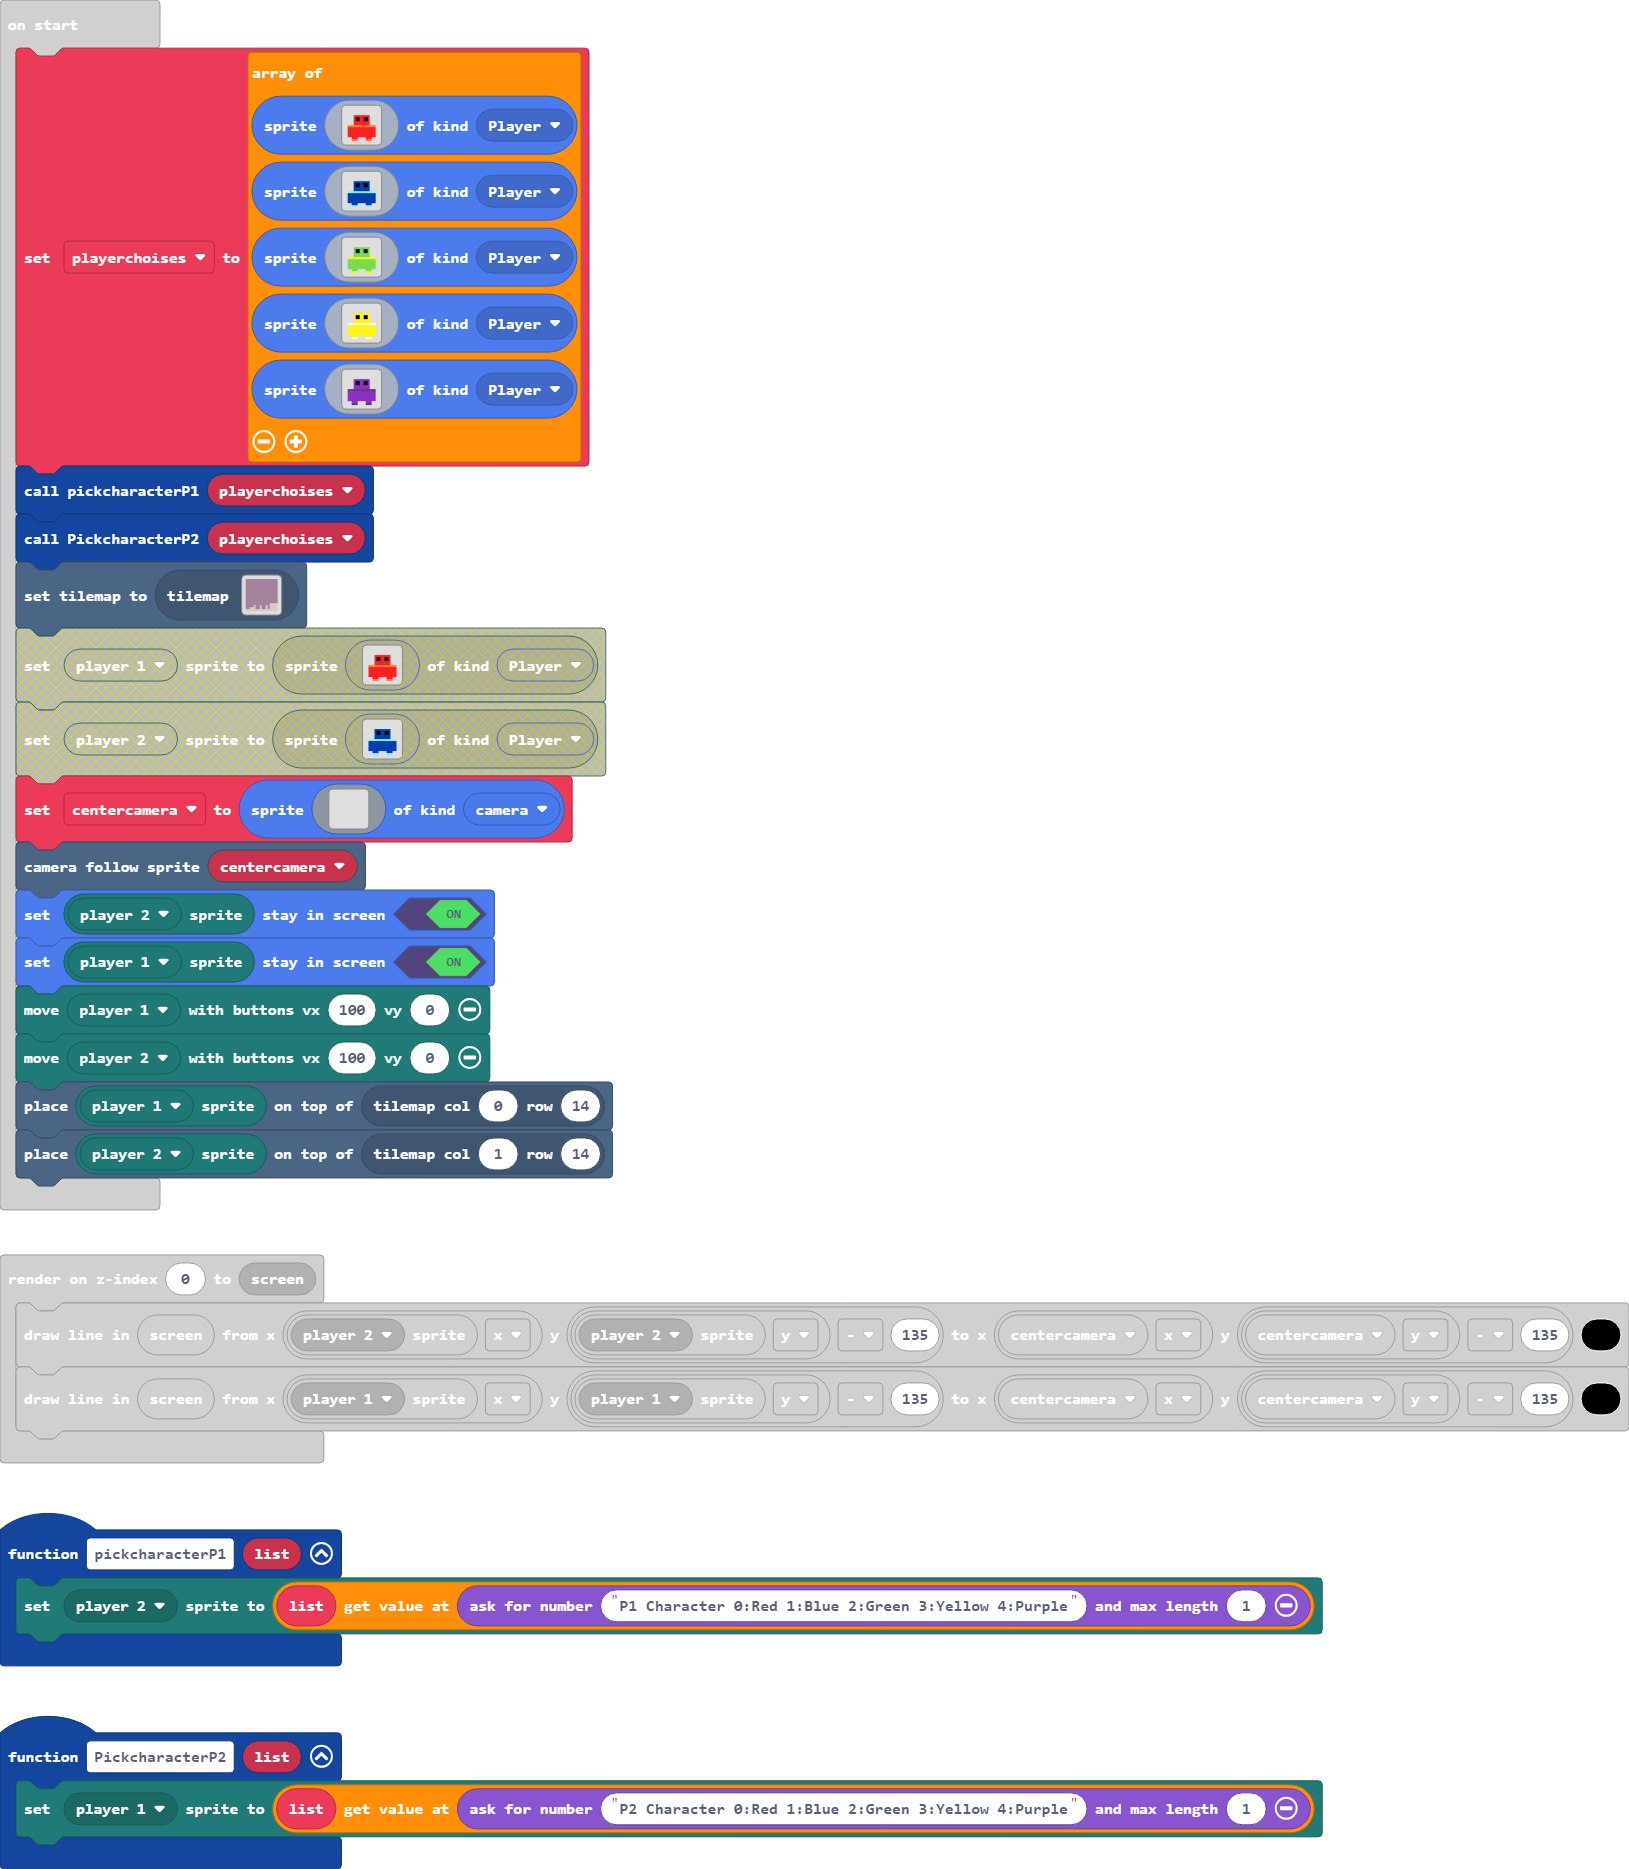
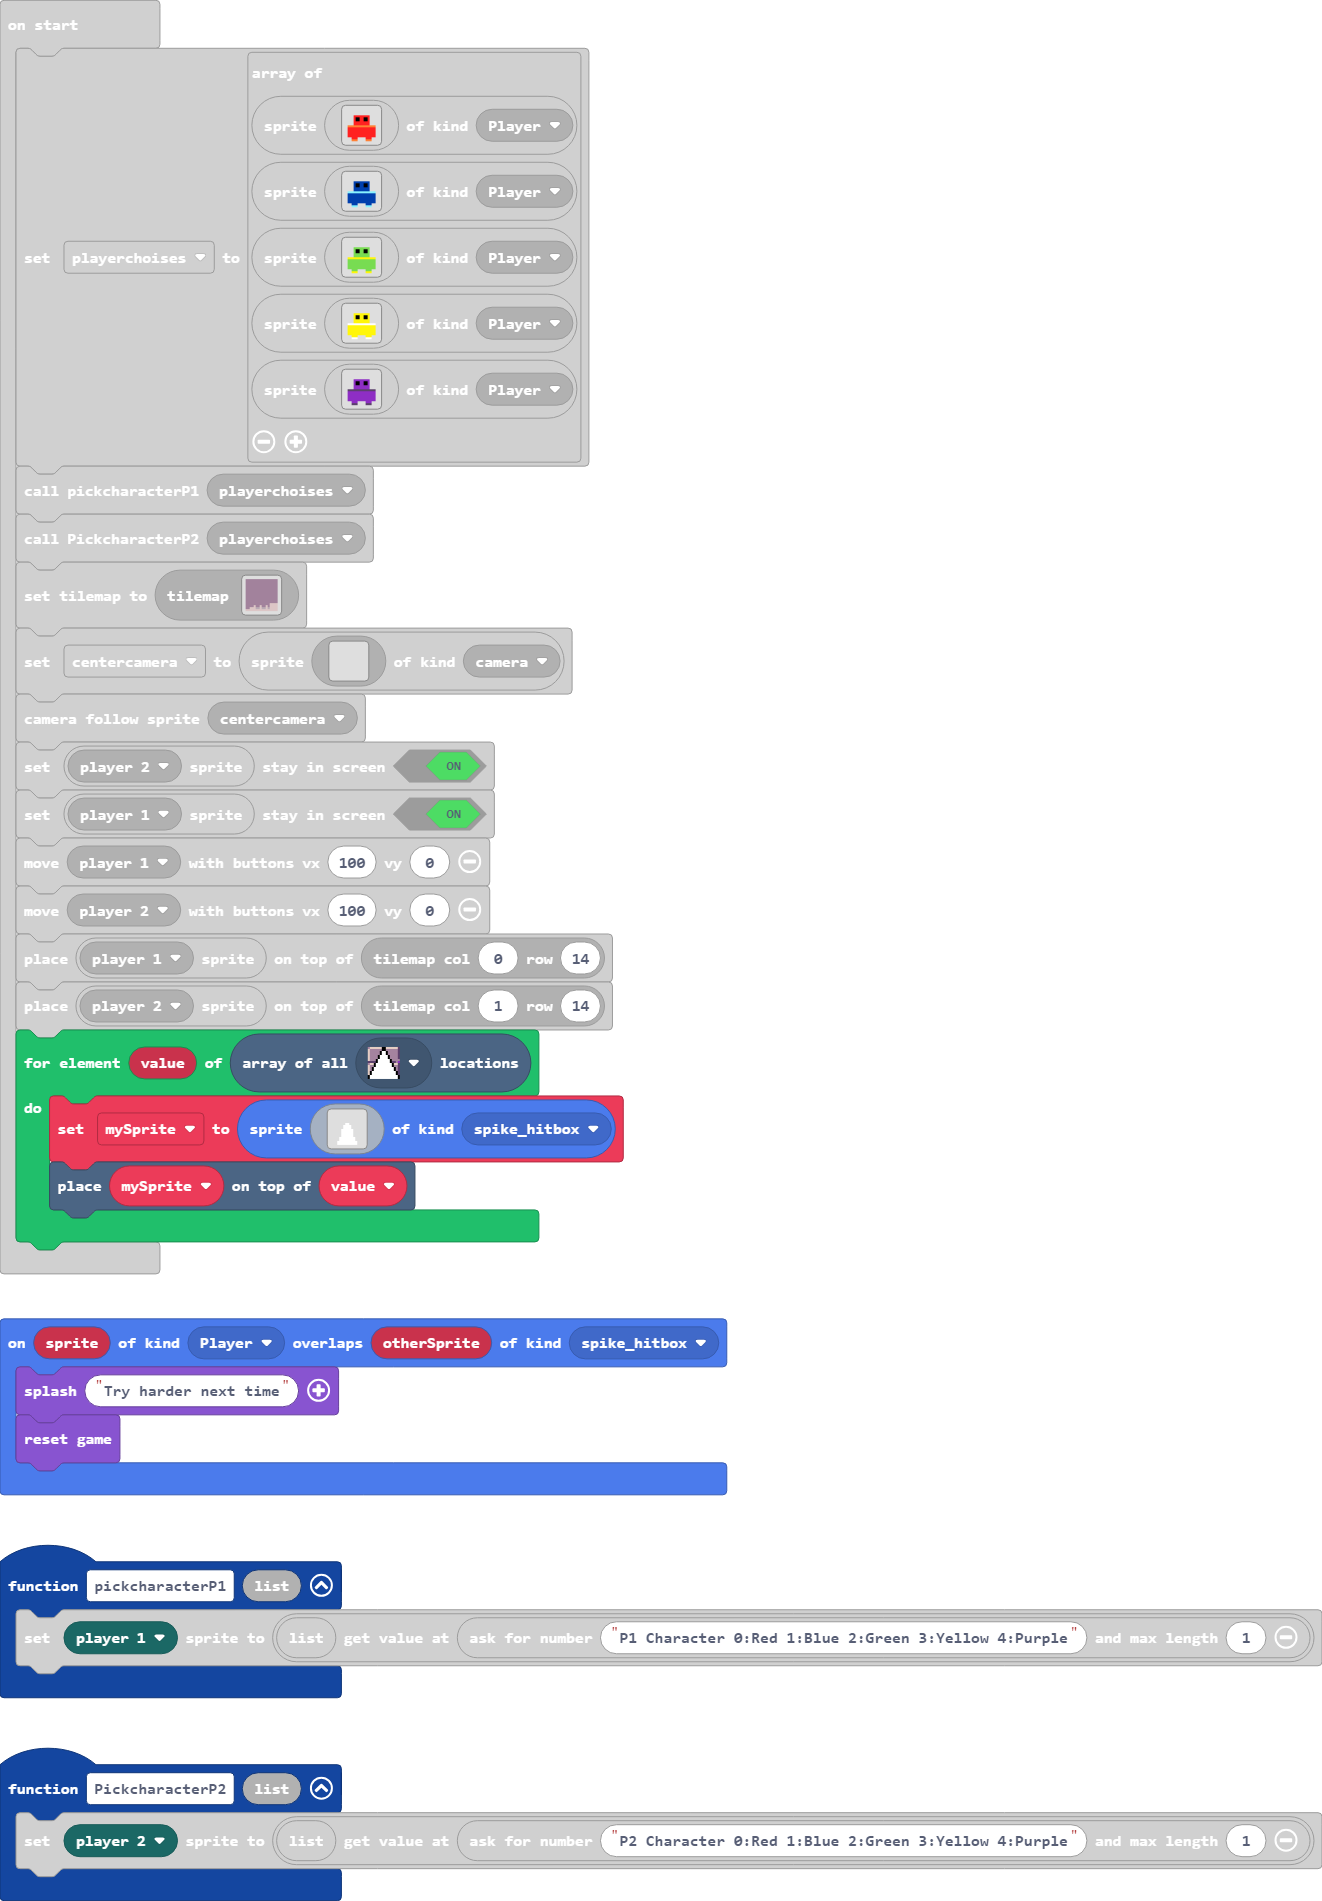
Update main.blocks, main.ts, tilemap.g.jres, tilemap.g.ts

diff --git a/main.ts b/main.ts
@@ -1,14 +1,19 @@
 namespace SpriteKind {
     export const camera = SpriteKind.create()
     export const Player2 = SpriteKind.create()
+    export const spike_hitbox = SpriteKind.create()
 }
+sprites.onOverlap(SpriteKind.Player, SpriteKind.spike_hitbox, function (sprite, otherSprite) {
+    game.splash("Try harder next time")
+    game.reset()
+})
 controller.player1.onButtonEvent(ControllerButton.Up, ControllerButtonEvent.Pressed, function () {
     if (mp.getPlayerSprite(mp.playerSelector(mp.PlayerNumber.One)).tileKindAt(TileDirection.Bottom, sprites.dungeon.floorLight0) || mp.getPlayerSprite(mp.playerSelector(mp.PlayerNumber.One)).overlapsWith(mp.getPlayerSprite(mp.playerSelector(mp.PlayerNumber.Two))) && mp.getPlayerSprite(mp.playerSelector(mp.PlayerNumber.Two)).tileKindAt(TileDirection.Bottom, sprites.dungeon.floorLight0)) {
         mp.getPlayerSprite(mp.playerSelector(mp.PlayerNumber.One)).vy = -125
     }
 })
 function pickcharacterP1 (list: Sprite[]) {
-    mp.setPlayerSprite(mp.playerSelector(mp.PlayerNumber.Two), list[game.askForNumber("P1 Character 0:Red 1:Blue 2:Green 3:Yellow 4:Purple", 1)])
+    mp.setPlayerSprite(mp.playerSelector(mp.PlayerNumber.One), list[game.askForNumber("P1 Character 0:Red 1:Blue 2:Green 3:Yellow 4:Purple", 1)])
 }
 function Distance (mySprite: Sprite, mySprite2: Sprite) {
     return Math.sqrt((mySprite.x - mySprite2.x) ** 2 + (mySprite.y - mySprite2.y) ** 2)
@@ -55,8 +60,9 @@ sprites.onOverlap(SpriteKind.Player, SpriteKind.Player, function (sprite, otherS
     }
 })
 function PickcharacterP2 (list: Sprite[]) {
-    mp.setPlayerSprite(mp.playerSelector(mp.PlayerNumber.One), list[game.askForNumber("P2 Character 0:Red 1:Blue 2:Green 3:Yellow 4:Purple", 1)])
+    mp.setPlayerSprite(mp.playerSelector(mp.PlayerNumber.Two), list[game.askForNumber("P2 Character 0:Red 1:Blue 2:Green 3:Yellow 4:Purple", 1)])
 }
+let mySprite: Sprite = null
 let centercamera: Sprite = null
 let playerchoises = [
 sprites.create(img`
@@ -178,6 +184,27 @@ mp.moveWithButtons(mp.playerSelector(mp.PlayerNumber.One), 100, 0)
 mp.moveWithButtons(mp.playerSelector(mp.PlayerNumber.Two), 100, 0)
 tiles.placeOnTile(mp.getPlayerSprite(mp.playerSelector(mp.PlayerNumber.One)), tiles.getTileLocation(0, 14))
 tiles.placeOnTile(mp.getPlayerSprite(mp.playerSelector(mp.PlayerNumber.Two)), tiles.getTileLocation(1, 14))
+for (let value of tiles.getTilesByType(assets.tile`myTile`)) {
+    mySprite = sprites.create(img`
+        . . . . . . . . . . . . . . . . 
+        . . . . . . . . . . . . . . . . 
+        . . . . . . . . . . . . . . . . 
+        . . . . . . . . . . . . . . . . 
+        . . . . . . . . . . . . . . . . 
+        . . . . . . . 1 1 . . . . . . . 
+        . . . . . . 1 1 1 1 . . . . . . 
+        . . . . . . 1 1 1 1 . . . . . . 
+        . . . . . 1 1 1 1 1 1 . . . . . 
+        . . . . . 1 1 1 1 1 1 . . . . . 
+        . . . . . 1 1 1 1 1 1 . . . . . 
+        . . . . . 1 1 1 1 1 1 . . . . . 
+        . . . . 1 1 1 1 1 1 1 1 . . . . 
+        . . . . 1 1 1 1 1 1 1 1 . . . . 
+        . . . 1 1 1 1 1 1 1 1 1 1 . . . 
+        . . . 1 1 1 1 1 1 1 1 1 1 . . . 
+        `, SpriteKind.spike_hitbox)
+    tiles.placeOnTile(mySprite, value)
+}
 game.onUpdate(function () {
     centercamera.setPosition((mp.getPlayerSprite(mp.playerSelector(mp.PlayerNumber.One)).x + mp.getPlayerSprite(mp.playerSelector(mp.PlayerNumber.Two)).x) / 2, (mp.getPlayerSprite(mp.playerSelector(mp.PlayerNumber.One)).y + mp.getPlayerSprite(mp.playerSelector(mp.PlayerNumber.Two)).y) / 2)
     Tether(Distance(mp.getPlayerSprite(mp.playerSelector(mp.PlayerNumber.One)), mp.getPlayerSprite(mp.playerSelector(mp.PlayerNumber.Two))))

diff --git a/tilemap.g.ts b/tilemap.g.ts
@@ -27,7 +27,7 @@ namespace myTiles {
 . . . . . . . . . . . . . . . . 
 `, [myTiles.transparency16], TileScale.Sixteen);
             case "level2":
-            case "level2":return tiles.createTilemap(hex`1000100002020202020202020202020202020202020202020202020202020202020202020202020202020202020202020202020202020202020202020202020202020202020202020202020202020202020202020202020202020202020202020202020202020202020202020202020202020202020202020202020202020202020202020202020202020202020202020202020202020202020202020202020202020202020202020202020202020202020202020202020202020202020202020202020202020202020202020202020201010101020202020102020102020102010101010202010101020201020201020101010101010101010101010101010101010101`, img`
+            case "level2":return tiles.createTilemap(hex`1000100002020202020202020202020202020202020202020202020202020202020202020202020202020202020202020202020202020202020202020202020202020202020202020202020202020202020202020202020202020202020202020202020202020202020202020202020202020202020202020202020202020202020202020202020202020202020202020202020202020202020202020202020202020202020202020202020202020202020202020202020202020202020202020202020202020202020202020202020201010101020202020102020102020102010101010202010101030301030301030101010101010101010101010101010101010101`, img`
 . . . . . . . . . . . . . . . . 
 . . . . . . . . . . . . . . . . 
 . . . . . . . . . . . . . . . . 
@@ -44,7 +44,7 @@ namespace myTiles {
 . . . . 2 . . 2 . . 2 . 2 2 2 2 
 . . 2 2 2 . . 2 . . 2 . 2 2 2 2 
 2 2 2 2 2 2 2 2 2 2 2 2 2 2 2 2 
-`, [myTiles.transparency16,sprites.dungeon.floorLight0,sprites.dungeon.floorDark0], TileScale.Sixteen);
+`, [myTiles.transparency16,sprites.dungeon.floorLight0,sprites.dungeon.floorDark0,myTiles.tile1], TileScale.Sixteen);
         }
         return null;
     })
